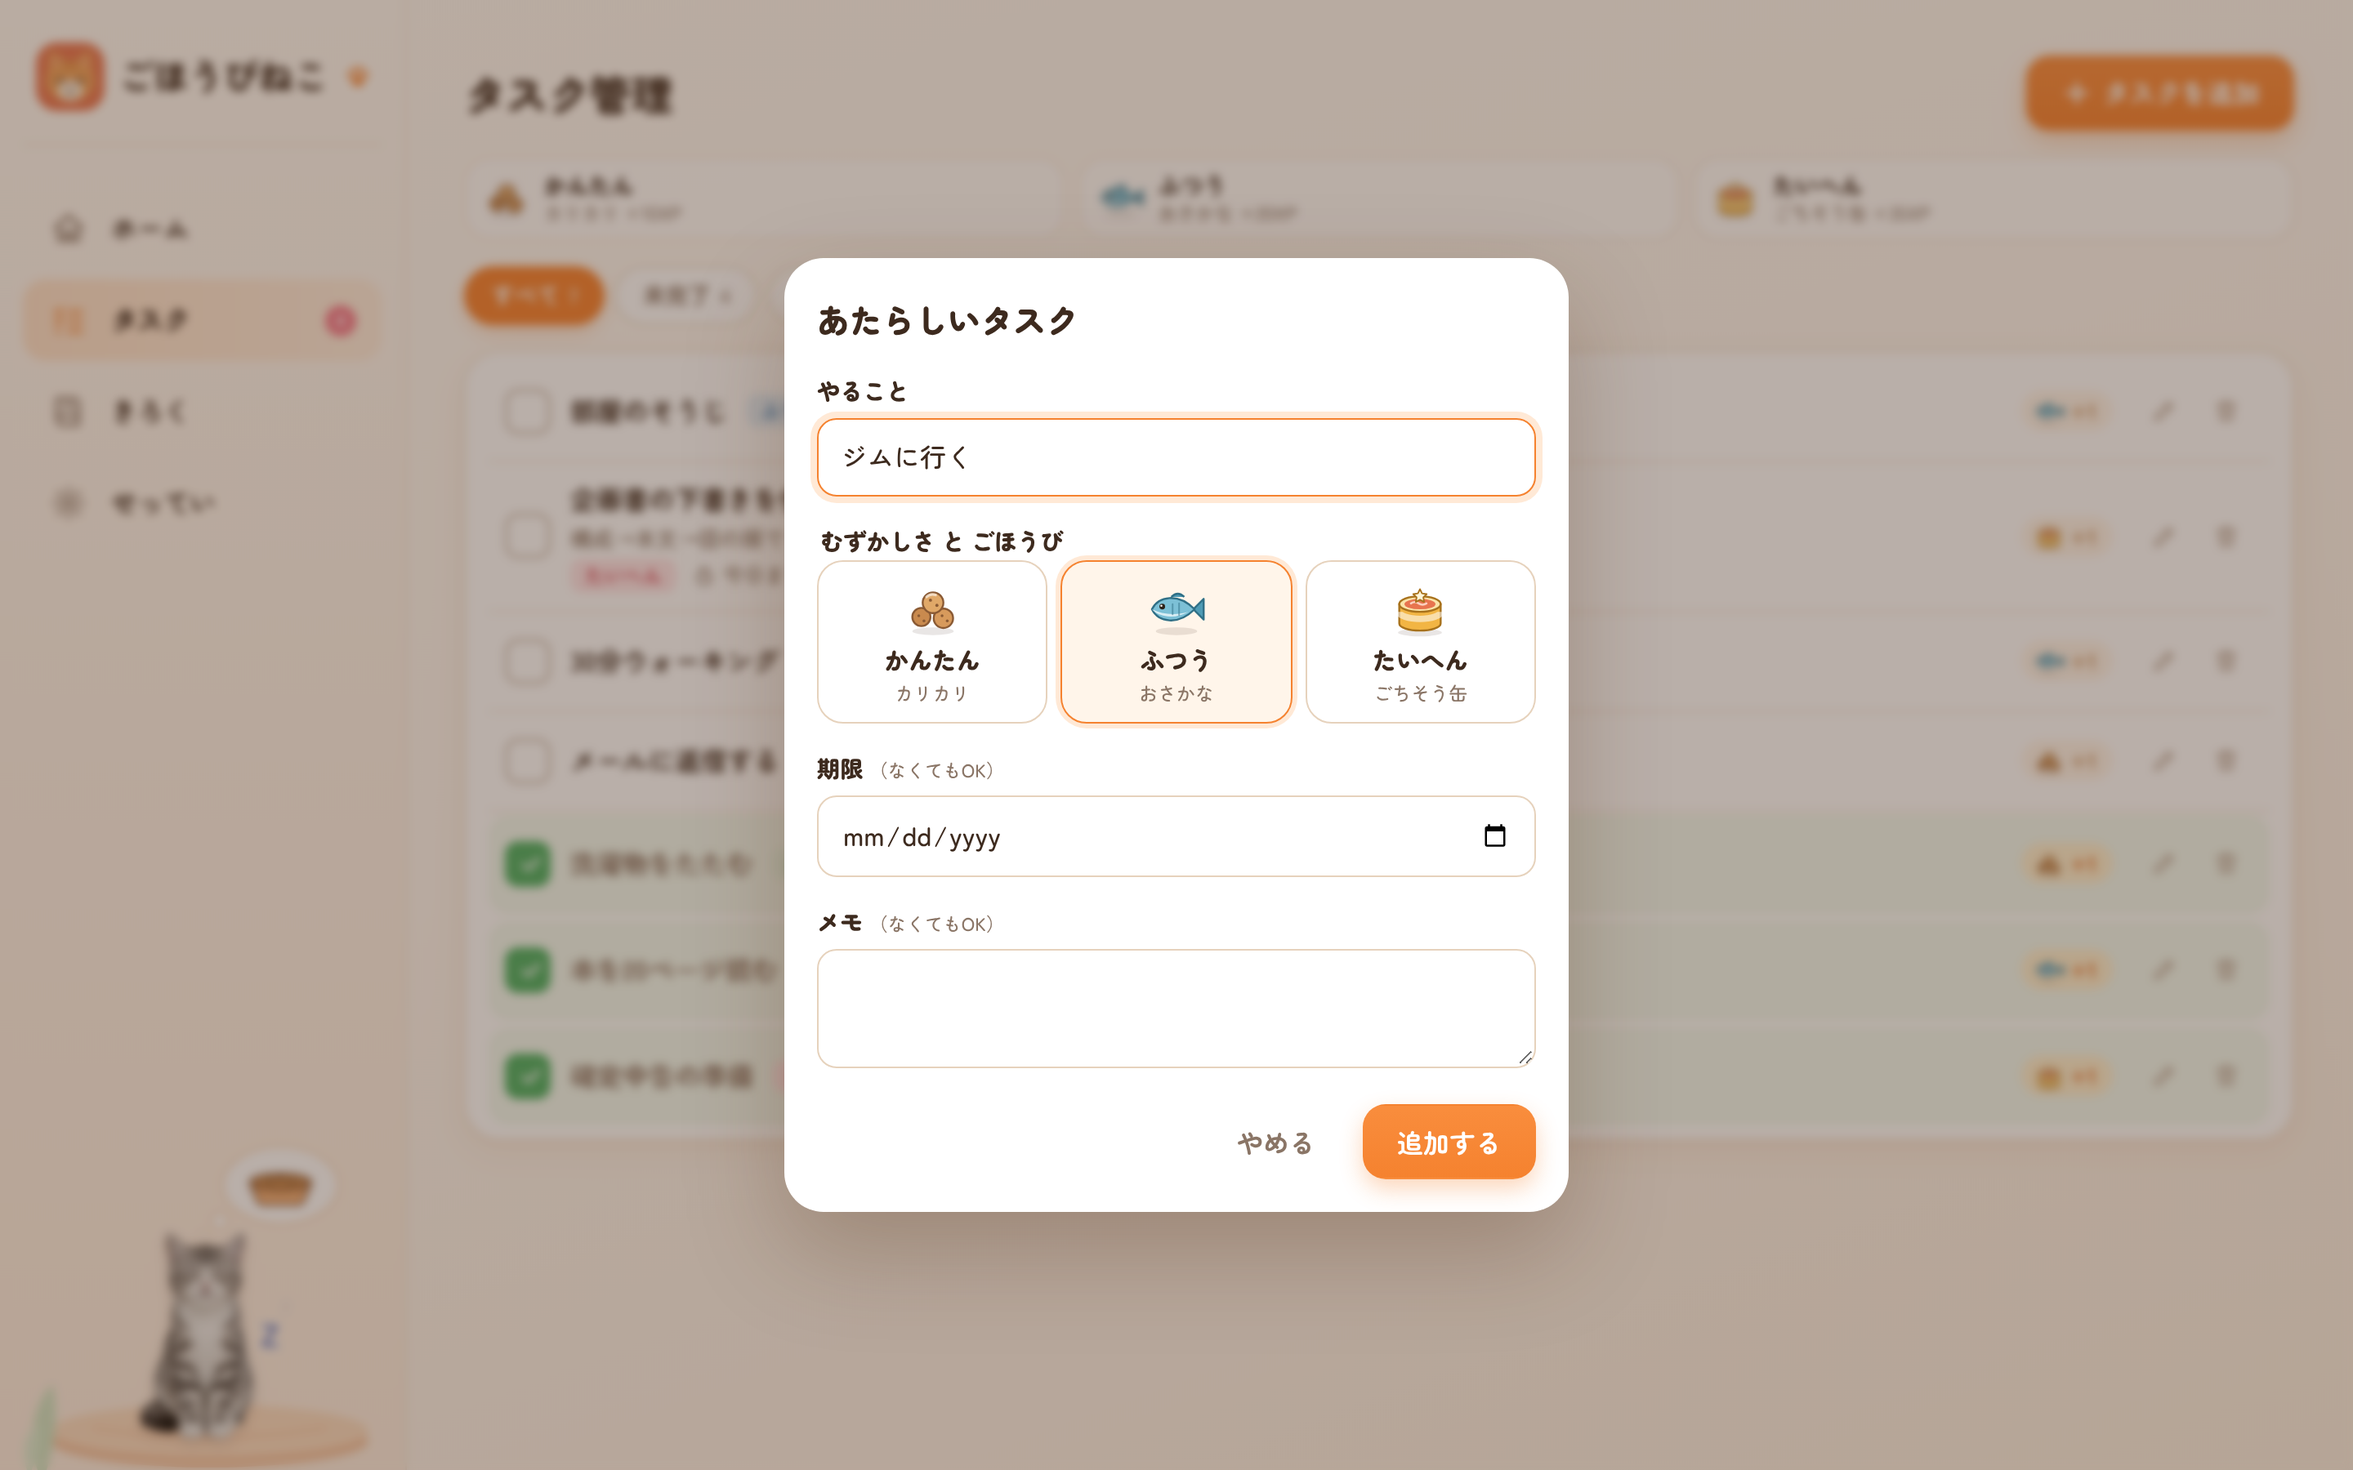
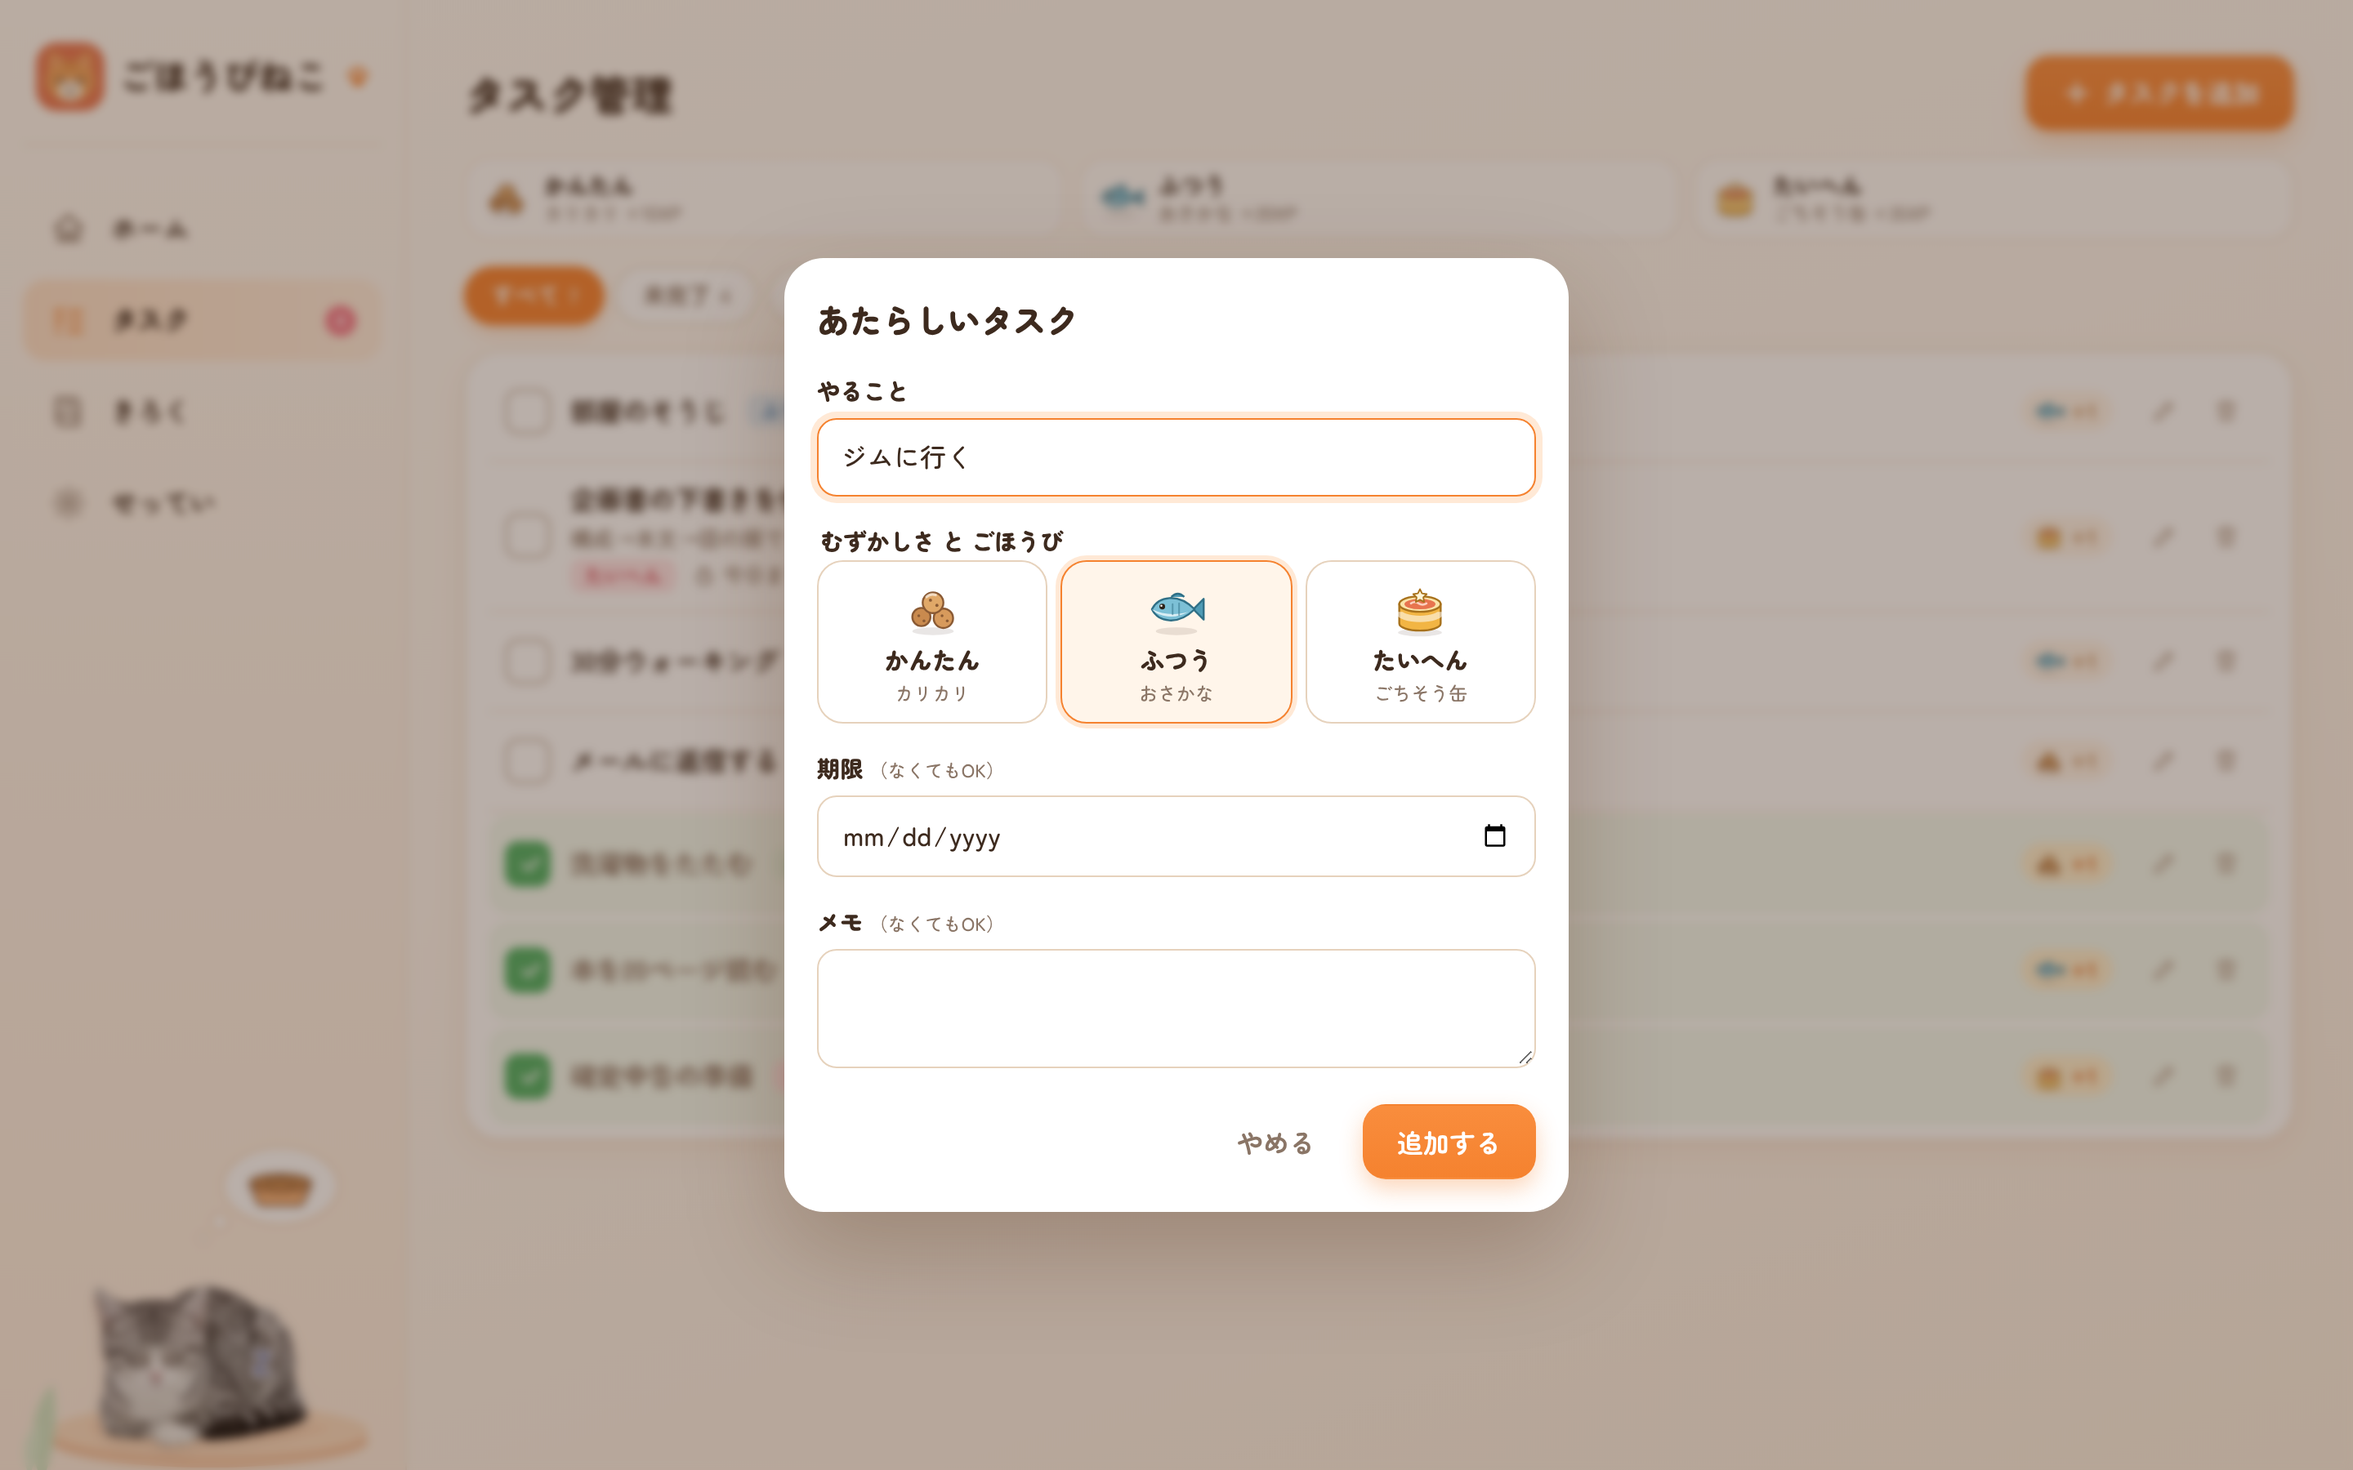
Geminiで作った3枚（毛づくろい・眠る・おなかぺこぺこ）を組み込み
- 背景を切り抜き、既存4枚と足元の高さをそろえてWebP化
- 代用表示（揺らす・暗くする・色をくすませる）をやめ、専用の写真に置き換え
- 写真ごとに首輪・王冠の位置を設定（首が隠れる写真では首輪を出さない）
- 毛づくろいの揺れを小さくし、眠るときのZzzをねこの右上へ
- サイドバー左下の飾りを、丸まって眠る写真に変更
- スクリーンショットとドキュメントを更新

Claude-Session: https://claude.ai/code/session_0112UXkmngyyzgaREKQpe6dQ

Changed region(s): [[0.0312, 0.84, 0.1562, 0.9956]]

diff --git a/src/app/globals.css b/src/app/globals.css
@@ -1131,8 +1131,8 @@ fieldset:disabled .choice__item { opacity: 0.6; cursor: not-allowed; }
 .sleep__cat {
   position: absolute;
   left: 50%;
-  bottom: 14px;
-  width: 92px;
+  bottom: 6px;
+  width: 150px;
   height: auto;
   transform: translateX(-50%);
   transform-origin: 50% 100%;
@@ -1141,7 +1141,7 @@ fieldset:disabled .choice__item { opacity: 0.6; cursor: not-allowed; }
   user-select: none;
   pointer-events: none;
 }
-.sleep__zzz { position: absolute; left: 68%; top: 76px; font-weight: 900; color: #5b6bb0; -webkit-text-stroke: 3px #fff; paint-order: stroke fill; }
+.sleep__zzz { position: absolute; left: 66%; top: 92px; font-weight: 900; color: #5b6bb0; -webkit-text-stroke: 3px #fff; paint-order: stroke fill; }
 .sleep__zzz i { position: absolute; font-style: normal; opacity: 0; animation: c-zzz 3s ease-in-out infinite; }
 .sleep__zzz i:nth-child(1) { left: 0; top: 20px; font-size: 20px; }
 .sleep__zzz i:nth-child(2) { left: 14px; top: 2px; font-size: 15px; animation-delay: 0.6s; }
@@ -1193,7 +1193,7 @@ fieldset:disabled .choice__item { opacity: 0.6; cursor: not-allowed; }
 .cat__crown {
   position: absolute;
   width: 17%;
-  transform: translate(-50%, -62%) rotate(-4deg);
+  transform: translate(-50%, -62%) rotate(var(--crown-tilt, -4deg));
   filter: drop-shadow(0 3px 3px rgba(0, 0, 0, 0.3));
 }
 .cat--eating .cat__crown { width: 15%; transform: translate(-50%, -75%) rotate(6deg); }
@@ -1210,13 +1210,16 @@ fieldset:disabled .choice__item { opacity: 0.6; cursor: not-allowed; }
   pointer-events: none;
 }
 .cat__zzz i { position: absolute; font-style: normal; opacity: 0; }
+.cat--sleep .cat__zzz { top: 30%; right: -28%; }
+.cat--sleep .cat__zzz i:nth-child(1) { font-size: 18px; top: 46px; right: 30px; }
+.cat--sleep .cat__zzz i:nth-child(2) { font-size: 14px; top: 28px; right: 16px; }
+.cat--sleep .cat__zzz i:nth-child(3) { font-size: 11px; top: 14px; right: 4px; }
 .cat__zzz i:nth-child(1) { right: 34px; top: 52px; font-size: 26px; }
 .cat__zzz i:nth-child(2) { right: 16px; top: 28px; font-size: 20px; }
 .cat__zzz i:nth-child(3) { right: 2px; top: 8px; font-size: 15px; }
 
 /* 表情ごとの色味 */
-.cat--hungry .cat__photo { filter: saturate(0.55) brightness(0.94); }
-.cat--sleep .cat__photo { filter: brightness(0.9) saturate(0.85); }
+.cat--sleep .cat__photo { filter: brightness(0.97); }
 .cat--silhouette .cat__photo { filter: brightness(0); opacity: 0.16; }
 .cat--silhouette .cat__shadow { display: none; }
 
@@ -1226,7 +1229,7 @@ fieldset:disabled .choice__item { opacity: 0.6; cursor: not-allowed; }
 .cat--animated.cat--happy .cat__body { animation: c-nuzzle 0.7s ease-in-out infinite alternate; transform-origin: 50% 97%; }
 .cat--animated.cat--eating .cat__body { animation: c-munch 0.42s ease-in-out infinite alternate; }
 .cat--animated.cat--yawn .cat__body { animation: c-yawn 2.2s ease-in-out both; }
-.cat--animated.cat--groom .cat__body { animation: c-groom 0.6s ease-in-out infinite alternate; }
+.cat--animated.cat--groom .cat__body { animation: c-groom 0.55s ease-in-out infinite alternate; transform-origin: 50% 97%; }
 .cat--animated.cat--sleep .cat__photo { animation-duration: 4.6s; }
 .cat--animated.cat--hungry .cat__body { animation: c-droop 4s ease-in-out infinite; }
 .cat--animated .cat__zzz i { animation: c-zzz 3s ease-in-out infinite; }
@@ -1242,8 +1245,8 @@ fieldset:disabled .choice__item { opacity: 0.6; cursor: not-allowed; }
   0%, 100% { transform: scale(var(--cat-scale, 1)); }
   35%, 70% { transform: scale(calc(var(--cat-scale, 1) * 1.02), calc(var(--cat-scale, 1) * 1.05)) rotate(-1.5deg); }
 }
-@keyframes c-groom { from { transform: scale(var(--cat-scale, 1)) rotate(-3.5deg) translateY(0.8%); } to { transform: scale(var(--cat-scale, 1)) rotate(1deg) translateY(0); } }
-@keyframes c-droop { 0%, 100% { transform: scale(var(--cat-scale, 1)) translateY(0.6%); } 50% { transform: scale(var(--cat-scale, 1)) translateY(1.2%); } }
+@keyframes c-groom { from { transform: scale(var(--cat-scale, 1)) rotate(-0.8deg); } to { transform: scale(var(--cat-scale, 1)) rotate(0.8deg) translateY(0.4%); } }
+@keyframes c-droop { 0%, 100% { transform: scale(var(--cat-scale, 1)) translateY(0); } 50% { transform: scale(var(--cat-scale, 1)) translateY(0.5%); } }
 @keyframes c-zzz { 0% { opacity: 0; transform: translate(-6px, 8px); } 30%, 60% { opacity: 0.85; } 100% { opacity: 0; transform: translate(6px, -12px); } }
 @keyframes c-crown { 50% { margin-top: -0.6%; } }
 

diff --git a/src/components/Cat.tsx b/src/components/Cat.tsx
@@ -15,36 +15,38 @@ interface Props {
 }
 
 /**
- * 写真（AI生成・背景切り抜き済み）は4枚。足りない表情は、写真の組み合わせと動き・色で表す。
- *  - 毛づくろい・眠る：目を閉じた「ごきげん」の写真
- *  - おなかぺこぺこ：「ふつう」の写真を少しくすませる
+ * 表情ごとの写真（AI生成・背景切り抜き済み）。
+ * ふつう・ごきげん・食べる・あくびは Canva、毛づくろい・眠る・おなかぺこぺこは Gemini で作成。
  */
-type Photo = "normal" | "happy" | "eating" | "yawn";
+type Photo = "normal" | "happy" | "eating" | "yawn" | "groom" | "sleep" | "hungry";
 const PHOTO: Record<CatFace, Photo> = {
   normal: "normal",
-  hungry: "normal",
+  hungry: "hungry",
   happy: "happy",
-  groom: "happy",
-  sleep: "happy",
+  groom: "groom",
+  sleep: "sleep",
   eating: "eating",
   yawn: "yawn",
 };
 
 /**
  * 写真上の位置（画像の幅・高さに対する%）。首輪は首、王冠は耳のあいだに置く。
- * 食べる写真は首が隠れるので首輪を出さない。
+ * 首が隠れる写真（食べる・眠る・毛づくろい）は首輪を出さない。
  */
-const ANCHOR: Record<Photo, { headX: number; headY: number; neckY: number | null }> = {
+const ANCHOR: Record<Photo, { headX: number; headY: number; neckY: number | null; tilt?: number }> = {
   normal: { headX: 50.7, headY: 10.6, neckY: 37 },
   happy: { headX: 51.1, headY: 11.1, neckY: 36.6 },
   yawn: { headX: 50.7, headY: 10.9, neckY: 41.2 },
+  hungry: { headX: 50.8, headY: 11.4, neckY: 36 },
   eating: { headX: 51.4, headY: 59.5, neckY: null },
+  groom: { headX: 55, headY: 12.5, neckY: null, tilt: 18 },
+  sleep: { headX: 35.5, headY: 57, neckY: null },
 };
 
 /** 成長段階ごとの大きさ（足元を基準に縮める） */
 const SCALE: Record<StageId, number> = { kitten: 0.76, young: 0.86, adult: 0.94, master: 1 };
 
-export const CAT_PHOTOS = ["normal", "happy", "eating", "yawn"].map((p) => `/cat/${p}.webp`);
+export const CAT_PHOTOS = ["normal", "happy", "eating", "yawn", "groom", "sleep", "hungry"].map((p) => `/cat/${p}.webp`);
 
 export function Cat({ stage, face = "normal", animated = true, silhouette = false, className, title }: Props) {
   const photo = PHOTO[face];
@@ -65,7 +67,7 @@ export function Cat({ stage, face = "normal", animated = true, silhouette = fals
           // eslint-disable-next-line @next/next/no-img-element
           <img className="cat__photo cat__blink" src="/cat/happy.webp" alt="" width={480} height={720} decoding="async" draggable={false} />
         )}
-        {!silhouette && <Accessories stage={stage} headX={a.headX} headY={a.headY} neckY={a.neckY} />}
+        {!silhouette && <Accessories stage={stage} headX={a.headX} headY={a.headY} neckY={a.neckY} tilt={a.tilt ?? 0} />}
         {face === "sleep" && (
           <span className="cat__zzz" aria-hidden>
             <i>Z</i>
@@ -79,7 +81,7 @@ export function Cat({ stage, face = "normal", animated = true, silhouette = fals
 }
 
 /** 成長段階のしるし：わかねこ＝鈴つき首輪、おとなねこ＝リボン、ねこさま＝宝石の首輪＋王冠 */
-function Accessories({ stage, headX, headY, neckY }: { stage: StageId; headX: number; headY: number; neckY: number | null }) {
+function Accessories({ stage, headX, headY, neckY, tilt }: { stage: StageId; headX: number; headY: number; neckY: number | null; tilt: number }) {
   if (stage === "kitten") return null;
   return (
     <>
@@ -119,7 +121,7 @@ function Accessories({ stage, headX, headY, neckY }: { stage: StageId; headX: nu
         </svg>
       )}
       {stage === "master" && (
-        <svg className="cat__crown" viewBox="0 0 120 70" style={{ left: `${headX}%`, top: `${headY}%` }} aria-hidden>
+        <svg className="cat__crown" viewBox="0 0 120 70" style={{ left: `${headX}%`, top: `${headY}%`, "--crown-tilt": `${tilt - 4}deg` } as CSSProperties} aria-hidden>
           <defs>
             <linearGradient id="crown-gold" x1="0" y1="0" x2="0" y2="1">
               <stop offset="0" stopColor="#ffe48a" />

diff --git a/src/components/SleepingCat.tsx b/src/components/SleepingCat.tsx
@@ -1,6 +1,6 @@
 /**
  * サイドバー下の飾り：クッションの上でうとうとする、ねこ（写真）。ごはんの夢を見ている。
- * 写真は目を閉じた「ごきげん」の1枚を使い、ゆっくり呼吸させて Zzz を出す。
+ * 丸まって眠る写真を使い、ゆっくり呼吸させて Zzz を出す。
  */
 export function SleepingCat({ className }: { className?: string }) {
   const line = "#7d4a2b";
@@ -29,7 +29,7 @@ export function SleepingCat({ className }: { className?: string }) {
 
       {/* ねこ */}
       {/* eslint-disable-next-line @next/next/no-img-element */}
-      <img className="sleep__cat" src="/cat/happy.webp" alt="" width={480} height={720} decoding="async" draggable={false} />
+      <img className="sleep__cat" src="/cat/sleep.webp" alt="" width={480} height={720} decoding="async" draggable={false} />
 
       <span className="sleep__zzz">
         <i>Z</i>

diff --git a/docs/REPORT.md b/docs/REPORT.md
@@ -58,7 +58,7 @@
 | 項目 | 内容 |
 | --- | --- |
 | 生成 | Canva の AI 画像生成（依頼者の承認済みプロンプト）。「ふつう」を参照画像にして、残りの見た目をそろえた |
-| 取得できた写真 | ふつう・ごきげん・食べる・あくび の4枚（1080px）。毛づくろい・眠る・おなかぺこぺこは利用上限（quota_exceeded）で未生成 |
+| 取得できた写真 | ふつう・ごきげん・食べる・あくび の4枚（1080px）。毛づくろい・眠る・おなかぺこぺこは利用上限（quota_exceeded）で未生成 → 2026-11-15 に Gemini で作成して追加 |
 | 代用 | 毛づくろい・眠る＝目を閉じた「ごきげん」＋動き／Zzz、おなかぺこぺこ＝「ふつう」を彩度を下げて表示 |
 | 加工 | rembg（isnet-general-use）で背景を切り抜き、足元の位置をそろえて WebP（計 約180KB） |
 | 成長段階 | 大きさ（こねこ76%〜ねこさま100%）と、首輪・リボン・王冠の SVG の重ね表示 |
@@ -129,6 +129,18 @@ CSP の `script-src` は、Next.js が出力するインラインスクリプト
 | 1100〜1499px | 2カラムの部屋カードが狭く、「ごちそう缶」が折り返し、ふきだしがねこに重なっていた | この幅では部屋カードの中身を縦積みにし、横並びは 1500px 以上に限定 |
 | 全幅 | 王冠が大きすぎて頭からはみ出していた／育成メモの肉球の飾りが本文に重なっていた | 王冠を小さくして耳のあいだに配置／飾りを見出しの右上へ移動 |
 | PC 全般 | 背景を画面固定（`fixed`）にしていたため、iOS Safari や長いページで下部が白く抜けうる | 背景色を下地にして固定指定をやめた |
+
+### 足りなかった写真3枚の追加（2026-11-15）
+
+Canva の利用上限で作れていなかった3枚を、依頼者が Gemini で作成（プロンプトは `docs/gemini/prompts.md`）。背景を切り抜き、既存4枚と足元の高さをそろえて組み込んだ。
+
+| 表情 | 以前（代用表示） | 現在 |
+| --- | --- | --- |
+| 毛づくろい | 目を閉じた「ごきげん」の写真を揺らす | 前足をなめる専用の写真。揺れは小さく |
+| 眠る | 「ごきげん」の写真を暗くする（おすわりのまま） | 丸まって眠る専用の写真。Zzz はねこの右上 |
+| おなかぺこぺこ | 「ふつう」の写真の色をくすませる | 見上げてねだる専用の写真（色加工なし） |
+
+サイドバー左下の飾りも、丸まって眠る写真に変更。首輪・王冠の位置は写真ごとに設定し、こねこ・わかねこ・ねこさまの3段階で実際の状態（夜の放置・空腹・ひとり遊び）にして表示を確認した（`docs/screenshots/cat-new-photos.png`）。
 
 ## 2. 実装済み機能（動作確認済み）
 
